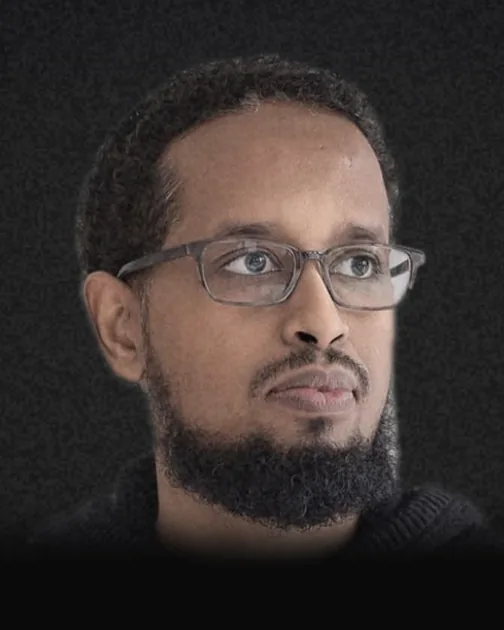
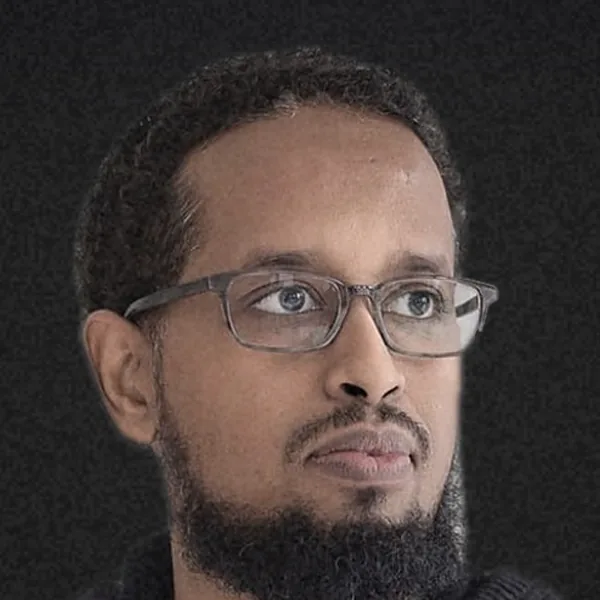
asmbly: square lineup cards with one shared portrait framing
The 4:5 card left the cover-based portraits with dark space under the
shoulders. Make the image square and recrop every headshot (Sophie,
Sehun, Wilfred, Andrew, Robleh, Amir, Pursuit Grooves, Alex, Geoffrey)
to the same framing: crown at 7%, chin at 86%, 600px. Scene shots keep
their centre crop.

On screens up to 760px the open bio now covers the whole card, since the
square is too short for it, and the name block fades out behind it.
Between 1001px and 1240px the bio text steps down to 13px so it fits.

Claude-Session: https://claude.ai/code/session_015vvedEEUJEY2Xconp5SVWz

diff --git a/public/asmbly/index.html b/public/asmbly/index.html
@@ -357,7 +357,7 @@
   /* Lineup TBA */
   .lineup { display: grid; grid-template-columns: repeat(4, 1fr); gap: 1px; background: var(--line); border: 1px solid var(--line); }
   .card { background: var(--bg); position: relative; overflow: hidden; }
-  .card__img { aspect-ratio: 4/5; position: relative; overflow: hidden; background: #0a0a0a; }
+  .card__img { aspect-ratio: 1 / 1; position: relative; overflow: hidden; background: #0a0a0a; }
   .card__img img { width: 100%; height: 100%; object-fit: cover; filter: grayscale(1) contrast(1.2) brightness(.55) blur(6px); transform: scale(1.12); transition: filter .7s ease, transform 1.2s ease; }
   .card:hover .card__img img { filter: grayscale(0) contrast(1.1) brightness(.85) blur(0); transform: scale(1.02); }
   .card__img::after { content: ""; position: absolute; inset: 0; background: repeating-linear-gradient(0deg, rgba(0,0,0,.4) 0 2px, transparent 2px 4px); mix-blend-mode: multiply; }
@@ -394,6 +394,15 @@
   .card__role { margin-top: 10px; color: var(--grey); }
   .lineup-note { display: flex; justify-content: space-between; align-items: center; gap: 20px; flex-wrap: wrap; margin-top: 28px; }
   @media (max-width: 1000px) { .lineup { grid-template-columns: repeat(2, 1fr); } }
+  @media (min-width: 1001px) and (max-width: 1240px) { .card__bio { padding: 16px 16px; gap: 8px; } .card__bio p { font-size: 13px; line-height: 1.38; } }
+  /* Narrow screens: the square portrait is too short for a bio, so the open bio covers the whole card (photo + name) */
+  @media (max-width: 760px) {
+    .card__img { position: static; }
+    .card__img::after, .card--revealed .card__img::before { inset: 0 0 auto 0; aspect-ratio: 1 / 1; }
+    .card__bio { background: linear-gradient(to top, rgba(5,5,5,.97) 0%, rgba(5,5,5,.94) 50%, rgba(5,5,5,.4) 72%, rgba(5,5,5,0) 88%); }
+    .card__body > * { transition: opacity .3s ease; }
+    .card--revealed:is(.is-active, :has(:focus-visible)) .card__body > * { opacity: 0; }
+  }
   @media (max-width: 480px) { .card__name { font-size: 18px; } .card__body { padding: 14px; } .card__ig { font-size: 11px; letter-spacing: .04em; } .card__bio { padding: 14px 12px; gap: 6px; } .card__bio p { font-size: 12px; line-height: 1.35; } .card__bio span { font-size: 9px; } }
 
   /* Venue horizontal scroll */
@@ -872,18 +881,18 @@ document.addEventListener('click', (e) => {
       <span class="eyebrow">Decrypting soon</span>
     </div>
     <div class="lineup">
-      <article class="card card--revealed"><div class="card__img"><img decoding="async" src="/asmbly/img/sophie-hospes-s.webp" alt="Sophie Hospes" loading="lazy" /><div class="card__bio" aria-hidden="true"><span class="mono">About</span><p>Creative director based in Malmö. Through Studio Sophie Hospes and as Creative Director at New Limit Labs, she builds brand worlds across campaigns, product design and AI-powered creative systems.</p></div></div><div class="card__body"><div class="card__name">Sophie Hospes</div><div class="card__role mono">Speaker · The future of creative work</div><a class="card__ig mono" href="https://www.instagram.com/studiosophiehospes/" target="_blank" rel="noopener" aria-label="Sophie Hospes on Instagram">@studiosophiehospes ↗</a></div></article>
-      <article class="card card--revealed"><div class="card__img"><img decoding="async" src="/asmbly/img/sehun-choi-s.webp?v=3" alt="Sehun Choi" loading="lazy" /><div class="card__bio" aria-hidden="true"><span class="mono">About</span><p>Seoul-based artist working with generative AI across image, film and large-scale installation, with work for brands including OpenAI, Samsung and LG Electronics.</p></div></div><div class="card__body"><div class="card__name">Sehun Choi</div><div class="card__role mono">Speaker · Artist talk</div><a class="card__ig mono" href="https://www.instagram.com/se.hunchoi/" target="_blank" rel="noopener" aria-label="Sehun Choi: @se.hunchoi">@se.hunchoi ↗</a></div></article>
-      <article class="card card--revealed"><div class="card__img"><img decoding="async" src="/asmbly/img/wilfred-lee-s.webp?v=3" alt="Wilfred Lee" loading="lazy" /><div class="card__bio" aria-hidden="true"><span class="mono">About</span><p>Toronto AI filmmaker, worldbuilder and educator. Founder of Artist's Journey and GenTO, he brings storytelling, generative tools and community together into finished work.</p></div></div><div class="card__body"><div class="card__name">Wilfred Lee</div><div class="card__role mono">Panelist · The future of entertainment</div><a class="card__ig mono" href="https://www.instagram.com/theartistsjourney/" target="_blank" rel="noopener" aria-label="Wilfred Lee on Instagram">@theartistsjourney ↗</a></div></article>
-      <article class="card card--revealed"><div class="card__img"><img decoding="async" src="/asmbly/img/andrew-macdonald-s.webp" alt="Andrew MacDonald" loading="lazy" /><div class="card__bio" aria-hidden="true"><span class="mono">About</span><p>Filmmaker and creative-innovation leader at Cream Productions. As executive creative producer at Dark Half, he leads AI-enabled production and VFX workflows for film and television.</p></div></div><div class="card__body"><div class="card__name">Andrew MacDonald</div><div class="card__role mono">Panelist · Dark Half</div><a class="card__ig mono" href="https://darkhalf.ai/" target="_blank" rel="noopener" aria-label="Andrew MacDonald: darkhalf.ai">darkhalf.ai ↗</a></div></article>
-      <article class="card card--revealed"><div class="card__img"><img decoding="async" src="/asmbly/img/robleh-jama-s.webp?v=3" alt="Robleh Jama" loading="lazy" /><div class="card__bio" aria-hidden="true"><span class="mono">About</span><p>Toronto product builder and founder of Tomorrow. A Shopify alum, he co-founded Boom, the camera app for video calls, and founded the app studio Tiny Hearts.</p></div></div><div class="card__body"><div class="card__name">Robleh Jama</div><div class="card__role mono">Panelist · The Builder's Playbook</div><a class="card__ig mono" href="https://x.com/robjama" target="_blank" rel="noopener" aria-label="Robleh Jama: @robjama">@robjama ↗</a></div></article>
-      <article class="card card--revealed"><div class="card__img"><img decoding="async" src="/asmbly/img/amir-mxt-s.webp?v=3" alt="Amir MXT" loading="lazy" /><div class="card__bio" aria-hidden="true"><span class="mono">About</span><p>Founder of Humblytics, the simple analytics and A/B testing platform for websites. A product builder focused on shipping fast with small teams and new tools.</p></div></div><div class="card__body"><div class="card__name">Amir MXT</div><div class="card__role mono">Panelist · The Builder's Playbook</div><a class="card__ig mono" href="https://x.com/amirmxt" target="_blank" rel="noopener" aria-label="Amir MXT: @amirmxt">@amirmxt ↗</a></div></article>
+      <article class="card card--revealed"><div class="card__img"><img decoding="async" src="/asmbly/img/sophie-hospes-s.webp?v=4" alt="Sophie Hospes" loading="lazy" /><div class="card__bio" aria-hidden="true"><span class="mono">About</span><p>Creative director based in Malmö. Through Studio Sophie Hospes and as Creative Director at New Limit Labs, she builds brand worlds across campaigns, product design and AI-powered creative systems.</p></div></div><div class="card__body"><div class="card__name">Sophie Hospes</div><div class="card__role mono">Speaker · The future of creative work</div><a class="card__ig mono" href="https://www.instagram.com/studiosophiehospes/" target="_blank" rel="noopener" aria-label="Sophie Hospes on Instagram">@studiosophiehospes ↗</a></div></article>
+      <article class="card card--revealed"><div class="card__img"><img decoding="async" src="/asmbly/img/sehun-choi-s.webp?v=4" alt="Sehun Choi" loading="lazy" /><div class="card__bio" aria-hidden="true"><span class="mono">About</span><p>Seoul-based artist working with generative AI across image, film and large-scale installation, with work for brands including OpenAI, Samsung and LG Electronics.</p></div></div><div class="card__body"><div class="card__name">Sehun Choi</div><div class="card__role mono">Speaker · Artist talk</div><a class="card__ig mono" href="https://www.instagram.com/se.hunchoi/" target="_blank" rel="noopener" aria-label="Sehun Choi: @se.hunchoi">@se.hunchoi ↗</a></div></article>
+      <article class="card card--revealed"><div class="card__img"><img decoding="async" src="/asmbly/img/wilfred-lee-s.webp?v=4" alt="Wilfred Lee" loading="lazy" /><div class="card__bio" aria-hidden="true"><span class="mono">About</span><p>Toronto AI filmmaker, worldbuilder and educator. Founder of Artist's Journey and GenTO, he brings storytelling, generative tools and community together into finished work.</p></div></div><div class="card__body"><div class="card__name">Wilfred Lee</div><div class="card__role mono">Panelist · The future of entertainment</div><a class="card__ig mono" href="https://www.instagram.com/theartistsjourney/" target="_blank" rel="noopener" aria-label="Wilfred Lee on Instagram">@theartistsjourney ↗</a></div></article>
+      <article class="card card--revealed"><div class="card__img"><img decoding="async" src="/asmbly/img/andrew-macdonald-s.webp?v=4" alt="Andrew MacDonald" loading="lazy" /><div class="card__bio" aria-hidden="true"><span class="mono">About</span><p>Filmmaker and creative-innovation leader at Cream Productions. As executive creative producer at Dark Half, he leads AI-enabled production and VFX workflows for film and television.</p></div></div><div class="card__body"><div class="card__name">Andrew MacDonald</div><div class="card__role mono">Panelist · Dark Half</div><a class="card__ig mono" href="https://darkhalf.ai/" target="_blank" rel="noopener" aria-label="Andrew MacDonald: darkhalf.ai">darkhalf.ai ↗</a></div></article>
+      <article class="card card--revealed"><div class="card__img"><img decoding="async" src="/asmbly/img/robleh-jama-s.webp?v=4" alt="Robleh Jama" loading="lazy" /><div class="card__bio" aria-hidden="true"><span class="mono">About</span><p>Toronto product builder and founder of Tomorrow. A Shopify alum, he co-founded Boom, the camera app for video calls, and founded the app studio Tiny Hearts.</p></div></div><div class="card__body"><div class="card__name">Robleh Jama</div><div class="card__role mono">Panelist · The Builder's Playbook</div><a class="card__ig mono" href="https://x.com/robjama" target="_blank" rel="noopener" aria-label="Robleh Jama: @robjama">@robjama ↗</a></div></article>
+      <article class="card card--revealed"><div class="card__img"><img decoding="async" src="/asmbly/img/amir-mxt-s.webp?v=4" alt="Amir MXT" loading="lazy" /><div class="card__bio" aria-hidden="true"><span class="mono">About</span><p>Founder of Humblytics, the simple analytics and A/B testing platform for websites. A product builder focused on shipping fast with small teams and new tools.</p></div></div><div class="card__body"><div class="card__name">Amir MXT</div><div class="card__role mono">Panelist · The Builder's Playbook</div><a class="card__ig mono" href="https://x.com/amirmxt" target="_blank" rel="noopener" aria-label="Amir MXT: @amirmxt">@amirmxt ↗</a></div></article>
       <article class="card card--revealed"><div class="card__img"><img decoding="async" src="/asmbly/img/ali-phi-s.webp" alt="Ali Phi" loading="lazy" /><div class="card__bio" aria-hidden="true"><span class="mono">About</span><p>Tehran-born, Toronto-based computer artist and creative technologist. His live audiovisual sets fuse generative visuals, sound and data, with performances at MUTEK Montréal.</p></div></div><div class="card__body"><div class="card__name">Ali Phi</div><div class="card__role mono">Closing AV performance</div><a class="card__ig mono" href="https://www.instagram.com/ali_phi/" target="_blank" rel="noopener" aria-label="Ali Phi on Instagram">@ali_phi ↗</a></div></article>
       <article class="card card--revealed"><div class="card__img"><img decoding="async" src="/asmbly/img/enna-kim-s.webp" alt="Enna Kim" loading="lazy" /><div class="card__bio" aria-hidden="true"><span class="mono">About</span><p>Korean-Canadian new media artist and VJ working with projection mapping, murals, interactive installation and live performance, from the AGO to MUTEK and Venus Fest.</p></div></div><div class="card__body"><div class="card__name">Enna Kim</div><div class="card__role mono">Exhibiting artist</div><a class="card__ig mono" href="https://www.instagram.com/fongkikid/" target="_blank" rel="noopener" aria-label="Enna Kim on Instagram">@fongkikid ↗</a></div></article>
-      <article class="card card--revealed"><div class="card__img"><img decoding="async" src="/asmbly/img/pursuit-grooves-s.webp" alt="Pursuit Grooves" loading="lazy" /><div class="card__bio" aria-hidden="true"><span class="mono">About</span><p>Toronto producer, vocalist and visual artist Vanese Smith. 16+ albums and EPs on labels like Tectonic and Deepblak, MUTEK stages, and a 2025 Johanna Metcalf Prize finalist.</p></div></div><div class="card__body"><div class="card__name">Pursuit Grooves</div><div class="card__role mono">Opening performance</div><a class="card__ig mono" href="https://www.instagram.com/pursuitgrooves/" target="_blank" rel="noopener" aria-label="Pursuit Grooves: @pursuitgrooves">@pursuitgrooves ↗</a></div></article>
+      <article class="card card--revealed"><div class="card__img"><img decoding="async" src="/asmbly/img/pursuit-grooves-s.webp?v=4" alt="Pursuit Grooves" loading="lazy" /><div class="card__bio" aria-hidden="true"><span class="mono">About</span><p>Toronto producer, vocalist and visual artist Vanese Smith. 16+ albums and EPs on labels like Tectonic and Deepblak, MUTEK stages, and a 2025 Johanna Metcalf Prize finalist.</p></div></div><div class="card__body"><div class="card__name">Pursuit Grooves</div><div class="card__role mono">Opening performance</div><a class="card__ig mono" href="https://www.instagram.com/pursuitgrooves/" target="_blank" rel="noopener" aria-label="Pursuit Grooves: @pursuitgrooves">@pursuitgrooves ↗</a></div></article>
       <article class="card card--revealed"><div class="card__img"><img decoding="async" src="/asmbly/img/pfd-s.webp" alt="Pray First Diva" loading="lazy" /><div class="card__bio" aria-hidden="true"><span class="mono">About</span><p>Toronto digital artist working across visuals, technology and interaction, shown at Intel's Encore AI and InterAccess' flashDRIVE. At ASMBLY: a new interactive sculptural installation.</p></div></div><div class="card__body"><div class="card__name">Pray First Diva</div><div class="card__role mono">Exhibiting artist</div><a class="card__ig mono" href="https://www.instagram.com/prayfirstdiva/" target="_blank" rel="noopener" aria-label="Pray First Diva on Instagram">@prayfirstdiva ↗</a></div></article>
-      <article class="card card--revealed"><div class="card__img"><img decoding="async" src="/asmbly/img/alex-mcleod-s.webp?v=2" alt="Alex McLeod" loading="lazy" /><div class="card__bio" aria-hidden="true"><span class="mono">About</span><p>Toronto artist building digital worlds and playable spaces. At ASMBLY he brings Miros Mirror, a playable installation you can step up to and try for yourself.</p></div></div><div class="card__body"><div class="card__name">Alex McLeod</div><div class="card__role mono">Exhibiting artist</div><a class="card__ig mono" href="https://www.instagram.com/alex_mcleod_/" target="_blank" rel="noopener" aria-label="Alex McLeod on Instagram">@alex_mcleod_ ↗</a></div></article>
-      <article class="card card--revealed"><div class="card__img"><img decoding="async" src="/asmbly/img/geoffrey-pugen-s.webp?v=3" alt="Geoffrey Pugen" loading="lazy" /><div class="card__bio" aria-hidden="true"><span class="mono">About</span><p>Toronto video artist whose screen sculptures fold LED screens into architectural forms. A K.M. Hunter Award recipient with work in the BMO and TD collections.</p></div></div><div class="card__body"><div class="card__name">Geoffrey Pugen</div><div class="card__role mono">Exhibiting artist</div><a class="card__ig mono" href="https://www.instagram.com/geoffreypugen/" target="_blank" rel="noopener" aria-label="Geoffrey Pugen on Instagram">@geoffreypugen ↗</a></div></article>
+      <article class="card card--revealed"><div class="card__img"><img decoding="async" src="/asmbly/img/alex-mcleod-s.webp?v=4" alt="Alex McLeod" loading="lazy" /><div class="card__bio" aria-hidden="true"><span class="mono">About</span><p>Toronto artist building digital worlds and playable spaces. At ASMBLY he brings Miros Mirror, a playable installation you can step up to and try for yourself.</p></div></div><div class="card__body"><div class="card__name">Alex McLeod</div><div class="card__role mono">Exhibiting artist</div><a class="card__ig mono" href="https://www.instagram.com/alex_mcleod_/" target="_blank" rel="noopener" aria-label="Alex McLeod on Instagram">@alex_mcleod_ ↗</a></div></article>
+      <article class="card card--revealed"><div class="card__img"><img decoding="async" src="/asmbly/img/geoffrey-pugen-s.webp?v=4" alt="Geoffrey Pugen" loading="lazy" /><div class="card__bio" aria-hidden="true"><span class="mono">About</span><p>Toronto video artist whose screen sculptures fold LED screens into architectural forms. A K.M. Hunter Award recipient with work in the BMO and TD collections.</p></div></div><div class="card__body"><div class="card__name">Geoffrey Pugen</div><div class="card__role mono">Exhibiting artist</div><a class="card__ig mono" href="https://www.instagram.com/geoffreypugen/" target="_blank" rel="noopener" aria-label="Geoffrey Pugen on Instagram">@geoffreypugen ↗</a></div></article>
       <article class="card card--revealed"><div class="card__img"><img decoding="async" src="/asmbly/img/robbot-s.webp" alt="ROBBOT" loading="lazy" /><div class="card__bio" aria-hidden="true"><span class="mono">About</span><p>Toronto artist Robert Rigo, making interactive installations and live visuals. At ASMBLY, ROBBOT brings an interactive artwork to the exhibition floor.</p></div></div><div class="card__body"><div class="card__name">ROBBOT</div><div class="card__role mono">Interactive installation</div><a class="card__ig mono" href="https://www.instagram.com/robbot.5000/" target="_blank" rel="noopener" aria-label="ROBBOT: @robbot.5000">@robbot.5000 ↗</a></div></article>
       <article class="card"><div class="card__img"><img decoding="async" src="/asmbly/img/dr-curtain-s.webp" alt="" loading="lazy" /><span class="card__q">?</span></div><div class="card__body"><div class="card__name" data-scramble="PANELIST">PANELIST</div><div class="card__role mono">The future of entertainment</div></div></article>
       <article class="card"><div class="card__img"><img decoding="async" src="/asmbly/img/art-flower-s.webp" alt="" loading="lazy" /><span class="card__q">?</span></div><div class="card__body"><div class="card__name" data-scramble="PANELIST">PANELIST</div><div class="card__role mono">The future of entertainment</div></div></article>
